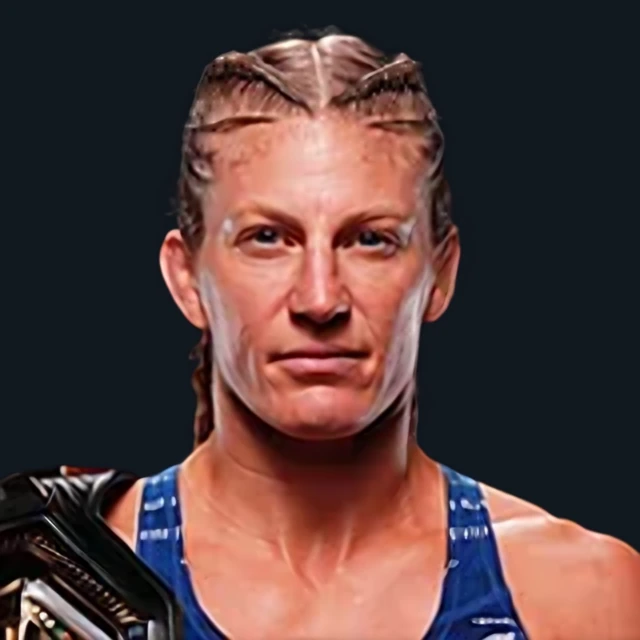
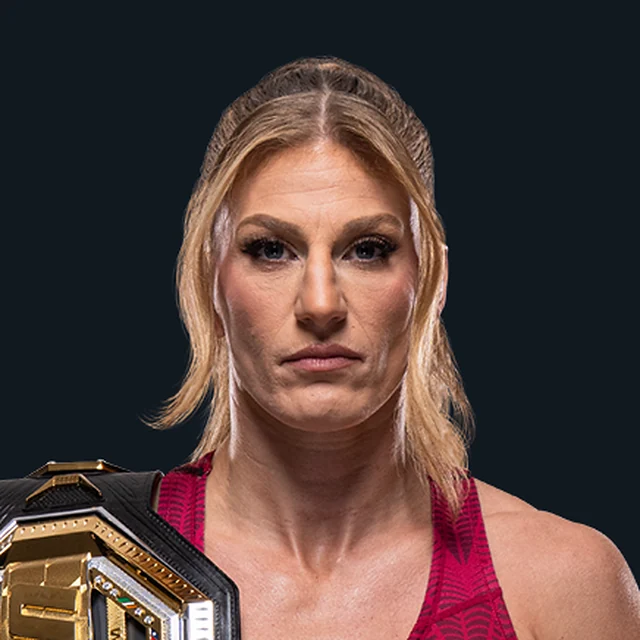
fix(ufc): use genuinely sourced ESPN portraits on Home (#2498)
* feat(ufc): source three Home portraits from original ESPN PNG headshots

* ci(ufc): acquire three official ESPN photos for Home only

* assets(ufc): replace upscaled proofs with genuine ESPN headshots

* test(ufc): verify real-source Home headshots and untouched ranked thumbs

* test(ufc): verify real-source Home headshots and untouched ranked thumbs

* test(ufc): verify real-source Home headshots and untouched ranked thumbs

* chore(ufc): remove one-shot image acquisition workflow after verified capture

* chore(ufc): retire 160px thumbnail super-resolution proof generator

---------

diff --git a/src/features/home/ufcHomePortraitAssets.test.ts b/src/features/home/ufcHomePortraitAssets.test.ts
@@ -1,4 +1,4 @@
-import { readFileSync, statSync } from "node:fs";
+import { existsSync, readFileSync, statSync } from "node:fs";
 import { describe, expect, it } from "vitest";
 
 function dimensions(file: Buffer) {
@@ -19,9 +19,17 @@ function dimensions(file: Buffer) {
   throw new Error("Unknown WebP codec " + type);
 }
 
-describe("UFC Home high-density portrait proofs", () => {
+describe("UFC Home portraits from independently sourced ESPN originals", () => {
+  it("records real ESPN source IDs and forbids the old thumbnail-upscale generator", () => {
+    const script = readFileSync("scripts/generate-ufc-home-from-espn.py", "utf8");
+    expect(script).toContain("4426000.png");
+    expect(script).toContain("4332765.png");
+    expect(script).toContain("2516131.png");
+    expect(script).toContain("Source was a thumbnail, not a genuine source");
+    expect(existsSync("scripts/generate-ufc-home-portrait-proofs.py")).toBe(false);
+  });
   it.each(["ciryl-gane", "kayla-harrison", "amanda-nunes"])(
-    "%s ships a real 640x640 Home-only WebP and preserves the compact 160px thumbnail",
+    "%s ships a genuine-source 640x640 Home WebP and preserves the compact 160px thumb",
     (slug) => {
       const path = "public/assets/fighters/" + slug;
       const home = readFileSync(path + ".home.webp");

diff --git a/src/features/home/UfcHomeFighterPortrait.test.tsx b/src/features/home/UfcHomeFighterPortrait.test.tsx
@@ -16,14 +16,14 @@ function fighter(slug: string): RankingFighter {
   } as RankingFighter;
 }
 
-describe("UFC Home-only ranked fighter portrait proofs", () => {
+describe("UFC Home-only ranked fighter sourced portraits", () => {
   it("features only the approved three slugs before expanding the complete ranked roster", () => {
     expect([...UFC_HOME_PORTRAIT_PROOFS].sort()).toEqual(
       ["amanda-nunes", "ciryl-gane", "kayla-harrison"],
     );
   });
 
-  it("loads the dedicated 4x Home asset without altering the standard thumbnails", () => {
+  it("loads the independently sourced Home asset without altering the standard thumbnails", () => {
     const view = render(<UfcHomeFighterPortrait fighter={fighter("ciryl-gane")} />);
     const home = view.container.querySelector("img")!;
     expect(home).toHaveAttribute("src", "/assets/fighters/ciryl-gane.home.webp");

diff --git a/src/features/home/UfcHomeFighterPortrait.tsx b/src/features/home/UfcHomeFighterPortrait.tsx
@@ -2,7 +2,7 @@ import { useState } from "react";
 import { FighterPhoto } from "../rankings/FighterPhoto";
 import type { RankingFighter } from "../rankings/rankingModel";
 
-/** Owner-approved Home-only portrait proofs; never replace the canonical thumbs. */
+/** Independently sourced Home-only ESPN headshots; never replace the canonical ranked thumbnails. */
 export const UFC_HOME_PORTRAIT_PROOFS = new Set([
   "ciryl-gane",
   "kayla-harrison",

diff --git a/scripts/generate-ufc-home-from-espn.py b/scripts/generate-ufc-home-from-espn.py
@@ -1,0 +1,76 @@
+#!/usr/bin/env python3
+"""Replace the first three UFC Home proofs from real, independently sourced ESPN portraits.
+
+Unlike the 160px ranking thumbnail super-resolution pass, this acquires the actual
+high-resolution source PNGs from ESPN's documented athlete IDs and produces
+Home-only square headshot crops. No generated identity or thumbnail edits.
+"""
+from __future__ import annotations
+
+from io import BytesIO
+from pathlib import Path
+from urllib.request import Request, urlopen
+
+from PIL import Image, ImageFilter
+
+ROOT = Path(__file__).resolve().parents[1]
+ASSETS = ROOT / "public" / "assets" / "fighters"
+SOURCE_URLS = {
+    "ciryl-gane": "https://a.espncdn.com/i/headshots/mma/players/full/4426000.png",
+    "kayla-harrison": "https://a.espncdn.com/i/headshots/mma/players/full/4332765.png",
+    "amanda-nunes": "https://a.espncdn.com/i/headshots/mma/players/full/2516131.png",
+}
+SIZE = 640
+
+def retrieve_png(url: str) -> Image.Image:
+    if not url.startswith("https://a.espncdn.com/i/headshots/mma/players/full/"):
+        raise ValueError("Unapproved athlete image source")
+    request = Request(
+        url,
+        headers={
+            "User-Agent": "Mozilla/5.0 (compatible; OctagonHQ-verified-portrait/1.0)",
+            "Referer": "https://www.espn.com/",
+            "Accept": "image/avif,image/webp,image/apng,image/png,image/*;q=0.8",
+        },
+    )
+    with urlopen(request, timeout=45) as response:
+        if response.status != 200:
+            raise RuntimeError(f"Source image HTTP status {response.status}")
+        payload = response.read(3_000_000)
+    with Image.open(BytesIO(payload)) as loaded:
+        if loaded.format != "PNG":
+            raise ValueError(f"ESPN photo was not a PNG: {loaded.format}")
+        if loaded.width < 550 or loaded.height < 400:
+            raise ValueError(f"Source was a thumbnail, not a genuine source: {loaded.size}")
+        return loaded.convert("RGBA")
+
+def create_home(slug: str, source_url: str) -> None:
+    source = retrieve_png(source_url)
+    source_width, source_height = source.size
+    side = min(source_width, source_height)
+    # Square crop around the actual fighter's face with natural proportions.
+    left = (source_width - side) // 2
+    top = 0
+    crop = source.crop((left, top, left + side, top + side))
+    # Dark tray is the established UFC Home media treatment.
+    matte = Image.new("RGBA", crop.size, (17, 24, 32, 255))
+    matte.alpha_composite(crop)
+    result = matte.convert("RGB").resize((SIZE, SIZE), Image.Resampling.LANCZOS)
+    result = result.filter(ImageFilter.UnsharpMask(radius=0.65, percent=55, threshold=2))
+    destination = ASSETS / f"{slug}.home.webp"
+    result.save(destination, format="WEBP", quality=87, method=6)
+    with Image.open(destination) as check:
+        if check.size != (SIZE, SIZE) or check.format != "WEBP":
+            raise ValueError(f"Failed image validation: {slug}")
+    bytes_count = destination.stat().st_size
+    if not 12_000 < bytes_count < 250_000:
+        raise ValueError(f"Home portrait size out of approved range: {slug} {bytes_count}")
+    print(f"{slug}: ESPN {source_width}x{source_height} -> real-source Home {SIZE}x{SIZE} ({bytes_count} bytes)")
+    print(f"  source: {source_url}")
+
+def main() -> None:
+    for slug, url in SOURCE_URLS.items():
+        create_home(slug, url)
+
+if __name__ == "__main__":
+    main()
